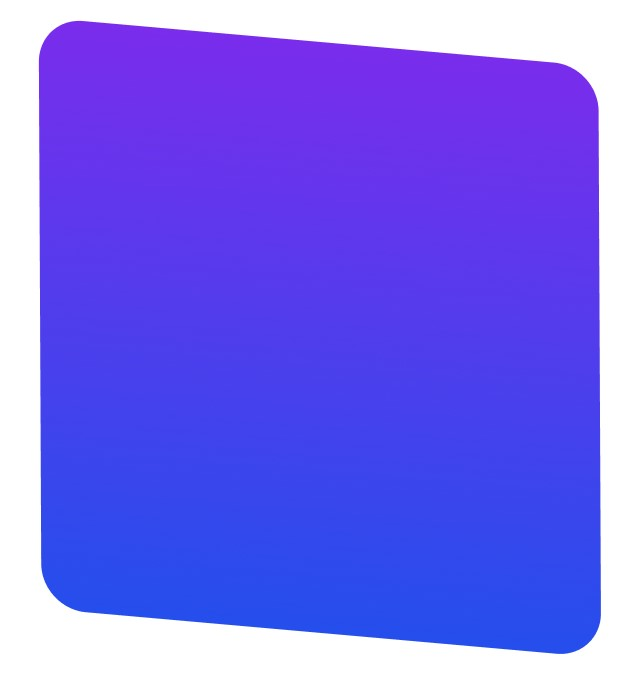
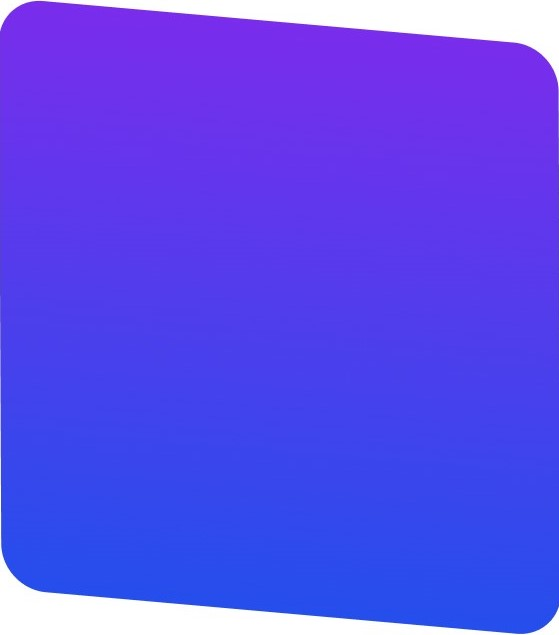
Resolver errores Users

Changed region(s): [[0.0, 0.0, 1.0, 1.0]]

diff --git a/CSS/users.css b/CSS/users.css
@@ -34,13 +34,14 @@
   border: none;
   font-size: 20px;
 }
-#inicioSesion {background-color: transparent;}
+#inicioSesion {background-color: transparent; cursor: pointer;}
 #registro {
   margin: 0 0 auto auto;
   border-bottom-left-radius: 40px;
   border-top-right-radius: 6px;
   background-color: #1641EA;
   color: white;
+  cursor: pointer;
 }
 #imgLogo{
   width: 40%;
@@ -87,7 +88,7 @@
   display: block;
   width:50%;
   height: 6vh;
-  margin: 0 auto 0 auto;
+  margin: 0 auto 7% auto;
   background: transparent;
   border-radius: 10px;
   border: 2px solid rgb(68, 0, 255) ;
@@ -102,67 +103,31 @@
   display: flex;
   flex-direction: column;
   position: absolute;
-  top: 30vh;
+  top: 27.5vh;
   right: 0;
   width: 17%;
   height: 45vh;
-  border-top-left-radius: 10px;
-  border-bottom-left-radius: 10px; 
-  background-image: linear-gradient( #8A26EC, #254EEC );
   text-align: center;
   background-image: url("../Imagenes/Pics/TarjetaInversoresSinLetras.jpg");
   background-repeat: no-repeat;
   background-size: cover;
-
-  /* position: absolute;
-  display: flex;
-  flex-direction: column;
-  top: 30vh;
-  right: 0;
-  width: 15%;
-  height: 40vh; */
-/*  
-  background: linear-gradient(179.66deg,#254EEC 0.49%, #8A26EC 118.41%);
-  border-top-left-radius: 10px;
-  border-bottom-left-radius: 10px;
-  text-align: center;
-  transform: matrix(1.10, 0.17, 0.20, 1, 10, 0); */
-  /* border-radius: 27px; */
-  
-  
 }
 #tituloInv{
   width: 90%;
-  /* text-align: center; */
-  /* color: white; */
-  /* font-size: 1.5rem; */
-  font-weight: 400;
-  /* margin: 15% 0 0 0; */
-  margin-top: 15%;
-  margin-left: 9%;
-  
+  margin: 15% auto 0 auto;
 }
 #txtInv{
-  width: 100%;
-  background: rgba(0, 0, 255, 0);
+  width: 90%;
   color: white;
-  font-family: Baloo Bhai 2;
-  font-style: normal;
-  font-size: 15px;
-  line-height: 20px;
-  color: #FFFFFF;
-  margin-top: 10%;
-  margin-left: 5%;
-
-
+  margin: auto;
 }
 #btnInv{
   width: 60%;
   height: 5vh;
   color: black;
-  margin: 15% 13% 15% auto;
-  border-radius: 10px;
+  margin: 0 auto 15% auto;
   font-family: Arial, Helvetica, sans-serif;
   border: none;
+  border-radius: 10px;
   background-color: white;
 }

diff --git a/HTML/users.html b/HTML/users.html
@@ -22,7 +22,7 @@
                 <img src="/Imagenes/Logos/MeansHexagonoSinFondo.png" alt="Logo" id="imgLogo">
 
                 <!-- Formulario Login -->
-                <form class="form-login">
+                <form class="form-login" id="form-login">
                     <div class="form-campo" id="campoEmail">
                         <input type="email" placeholder="Correo electronico" autocomplete required>
                     </div>
@@ -34,7 +34,7 @@
                 </form>
 
                 <!-- Formulario Registro -->
-                <form class="form-registro">
+                <form class="form-registro" id="form-registro">
                     <div class="form-campo" id="campoName">
                         <input type="text" placeholder="Nombre" autocomplete required>
                     </div>
@@ -55,8 +55,8 @@
 
         <!-- Info Inversores -->
         <div class="infoInversores">
-            <img  id="tituloInv" src="../Imagenes/Pics/LogoMeansInversores.jpg" alt="Logo">
-           <p id="txtInv">¿Quieres convertirte en un inversor de Means? Sigue los pasos de aquí abajo!</p>
+            <img  id="tituloInv" src="/Imagenes/Logos/logoInv.png" alt="Logo Inversors">
+            <p id="txtInv">¿Quieres convertirte en un inversor de Means? Sigue los pasos de aquí abajo!</p>
             <button id="btnInv">Means Inversores</button>
         </div>
         

diff --git a/JS/users.js b/JS/users.js
@@ -1,3 +1,8 @@
+const gridLogin = document.querySelector(".form-login");
+const gridRegistro = document.querySelector(".form-registro");
+const btnInicioSesion = document.querySelector("#inicioSesion");
+const btnRegistro = document.querySelector("#registro");
+
 function inicioSesion(){
     //querySelector() Devuelve el primer elemento del documento
     const gridLogin = document.querySelector(".form-login");
@@ -35,8 +40,8 @@ function registro(){
     
     btnInicioSesion.style.backgroundColor= "#1641EA";
     btnInicioSesion.style.color="white";
-    btnInicioSesion.style.borderBottomRightRadius = "6px";
-    btnInicioSesion.style.borderTopRightRadius = "40px";
+    btnInicioSesion.style.borderTopLeftRadius = "6px";
+    btnInicioSesion.style.borderBottomRightRadius = "40px";
 
     btnRegistro.style.backgroundColor = "transparent";
     btnRegistro.style.color= "black";
